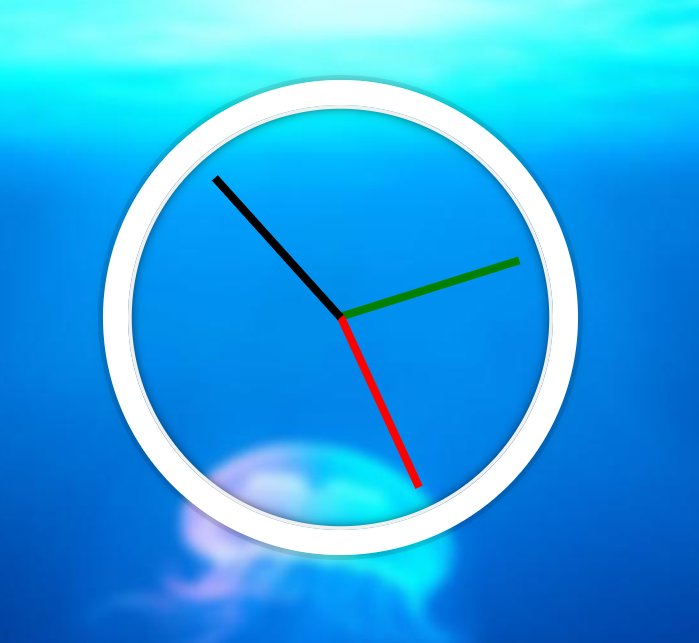
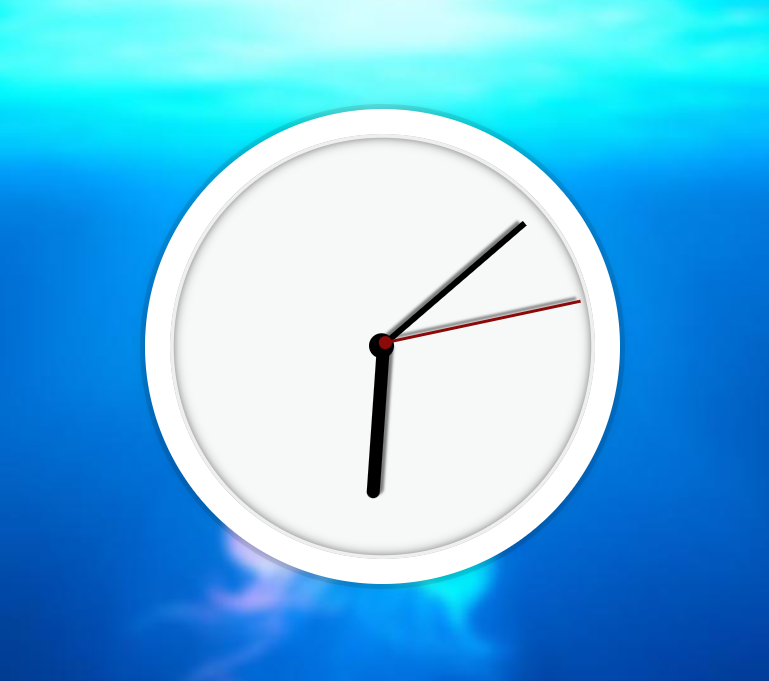
update styles.css

diff --git a/JavaScript30/JS-and-CSS-Clock/styles.css b/JavaScript30/JS-and-CSS-Clock/styles.css
@@ -7,7 +7,6 @@ html {
 }
 
 body {
-    margin: 0;
     font-size: 2rem;
     display: flex;
     flex: 1;
@@ -16,6 +15,7 @@ body {
 }
 
 .clock {
+    background-color: #f7f9f8;
     width: 30rem;
     height: 30rem;
     border: 20px solid white;
@@ -38,23 +38,56 @@ body {
     /* account for the height of the clock hands */
 }
 
-.hand {
-    width: 50%;
-    height: 6px;
-    background: black;
+.clock-face::before {
+    background-color: #000;
+    border-radius: 50%;
+    content: "";
+    height: 20px;
+    left: 46.5%;
     position: absolute;
+    top: 47.5%;
+    width: 20px;
+}
+
+.hand {
+    background: black;
+    box-shadow: 3px 3px 2px rgba(0, 0, 0, .5);
+    height: 6px;
+    position: absolute;
+    right: 50%;
     top: 50%;
     transform-origin: 100%;
     transform: rotate(90deg);
-    transition: all 0.05s;
     transition-timing-function: cubic-bezier(0.1, 2.7, 0.58, 1);
-}
-
-.min-hand {
-    background-color: red;
-
+    transition: all 0.05s;
+    width: 50%;
 }
 
 .hour-hand {
-    background-color: green;
+    border-bottom-left-radius: 0.5em;
+    border-top-left-radius: 0.5em;
+    height: 10px;
+    width: 40%;
+}
+
+
+.min-hand {
+    height: 5px;
+}
+
+.second-hand {
+    height: 2px;
+    background-color: rgb(139, 9, 9);
+    width: 54%;
+}
+
+.second-hand::before {
+    background-color: rgb(139, 9, 9);
+    border-radius: 50%;
+    content: "";
+    height: 10px;
+    left: 95.5%;
+    position: absolute;
+    top: -4px;
+    width: 10px;
 }

diff --git a/JavaScript30/JS-and-CSS-Clock/app.js b/JavaScript30/JS-and-CSS-Clock/app.js
@@ -16,6 +16,12 @@ function setDate() {
     const hour = now.getHours();
     const hourDegrees = ((hour / 12) * 360) + ((mins / 60) * 30) + 90;
     hourHand.style.transform = `rotate(${hourDegrees}deg)`;
+
+    if (secondsDegrees === 90) secondHand.style.transition = 'all 0s';
+    else secondHand.style.transition = 'all 0.05s';
+
+    if (minsDegrees === 90) minHand.style.transition = 'all 0s';
+    else minHand.style.transition = 'all 0.1s';
 }
 
 
